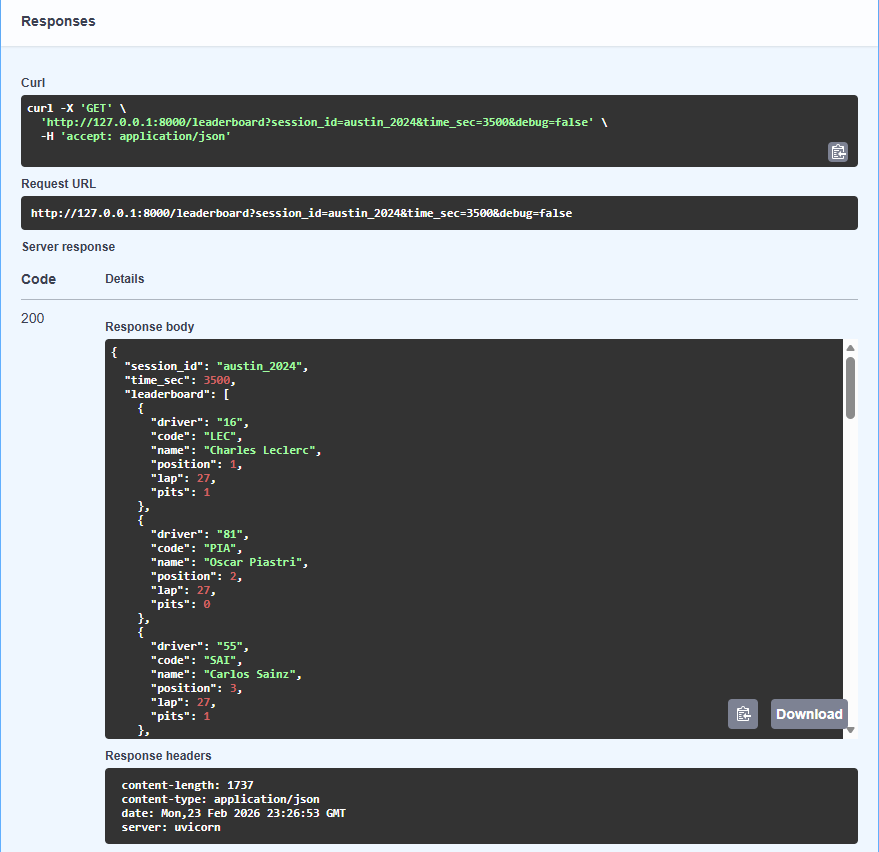
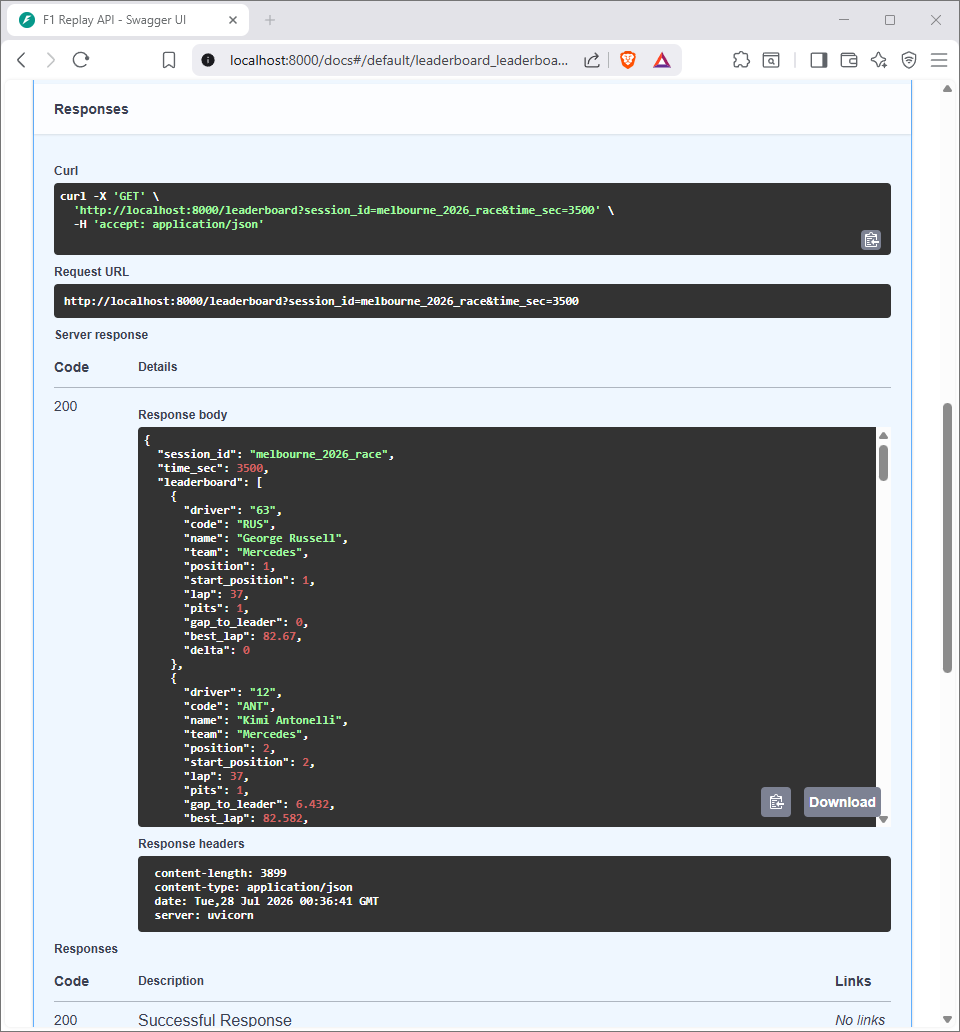
Update README docs and screenshots to match current API and frontend

diff --git a/README.md b/README.md
@@ -17,6 +17,7 @@ Instead of storing the full race state directly, this system stores individual r
 - LAP
 - POSITION
 - PIT
+- GAP
 
 When a client requests a specific timestamp, the application rebuilds the race state using all events up to that time.
 
@@ -40,12 +41,14 @@ This separation keeps API routing, database access, and replay logic organized a
 
 ## Features
 
-- Ingest real race data from OpenF1
-- Store lap, position, and pit events in SQLite
+- Ingest real race data from OpenF1, fetching laps/positions/pits/gaps concurrently to keep load times down
+- Store lap, position, pit, and gap events in SQLite
 - Rebuild race state at any timestamp
 - Generate a dynamic leaderboard for a given timestamp
 - Ingest driver metadata for names/codes/teams
 - Show places gained/lost (+/-) versus the starting grid during a race
+- Show gap-to-leader: live intervals during a Race, or each driver's fastest lap during Practice/Qualifying (OpenF1 has no live gap feed for those session types)
+- Flag cancelled Grand Prix weekends/sessions in the picker
 - Safely handle missing position updates
 - Basic validation and error handling
 - Web frontend for picking a session by year / Grand Prix / session type, with a scrubbable leaderboard
@@ -57,15 +60,18 @@ This separation keeps API routing, database access, and replay logic organized a
 A browser UI is included so sessions can be picked without knowing an OpenF1 `session_key` in advance.
 
 1. Open the app in a browser, the root URL redirects straight to the picker.
-2. Pick a **year**, a **Grand Prix**, and a **session** (Practice 1/2/3, Qualifying, Race, etc.), all populated live from OpenF1.
+2. Pick a **year**, a **Grand Prix**, and a **session** (Practice 1/2/3, Qualifying, Race, etc.), all populated live from OpenF1. Cancelled weekends/sessions are labeled as such.
 3. Click **Load Session** this resets, ingests events, and ingests driver metadata for that session in one step.
-4. Scrub through the session with the time slider, or click **Play** to watch the leaderboard update automatically.
+4. Scrub through the session with the time slider, or click **Play** to watch the leaderboard update automatically. During a Race, Pos/Gap reflect live running order; during Practice/Qualifying they're classified by each driver's fastest lap instead, since OpenF1 doesn't provide a live feed for those sessions.
 
 The frontend lives in `frontend/` (plain HTML/CSS/JS, no build step) and is served by FastAPI itself at `/ui`.
 
 ---
 
 ## Screenshots
+
+### Web Frontend Leaderboard
+![Frontend Leaderboard](screenshots/frontend_leaderboard.png)
 
 ### FastAPI Docs (Swagger)
 ![FastAPI Docs](screenshots/fastapi_docs.png)
